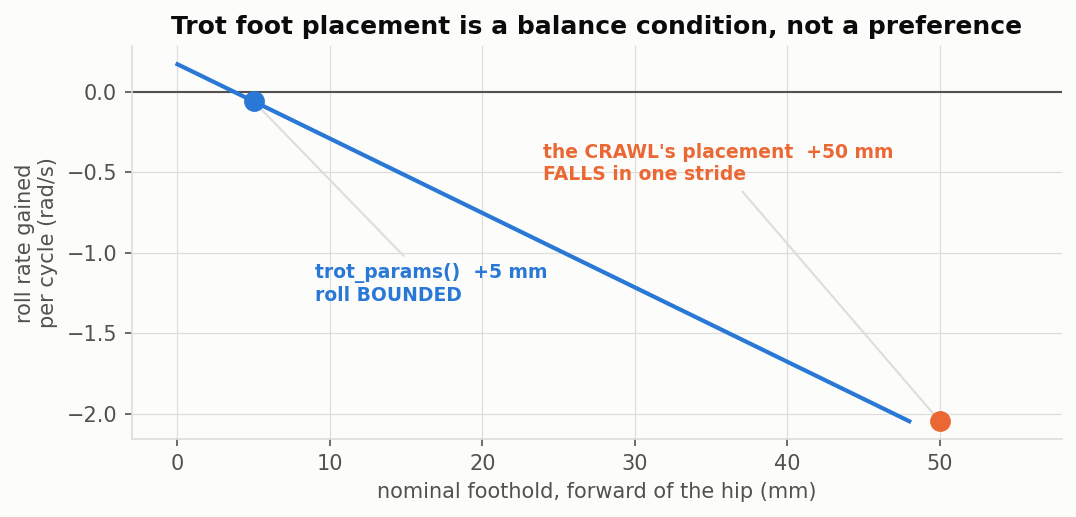
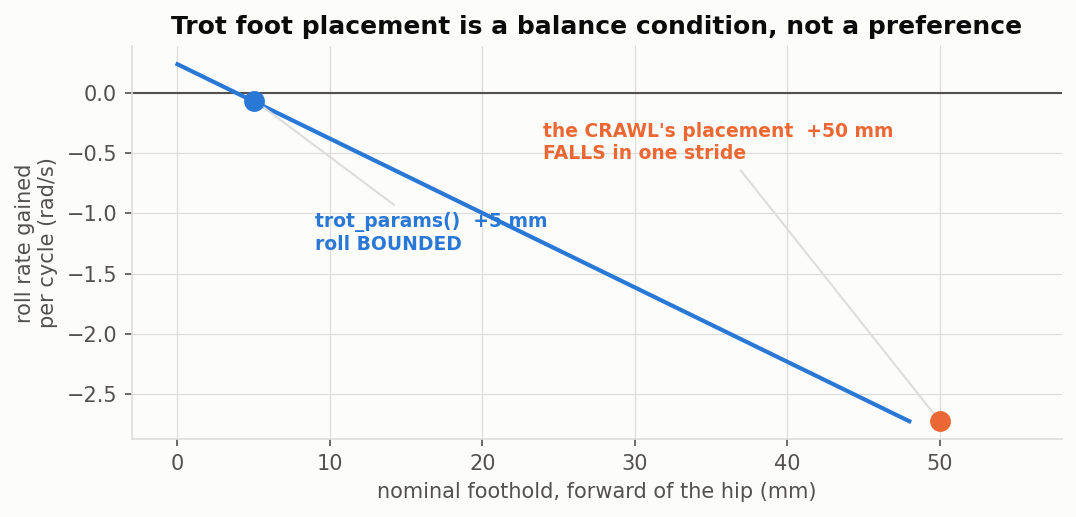
M15: the spine's yaw couple doubles its friction cost -- the trot slows to 50 cm/s
M14 costed only the TRANSLATIONAL half of the spine's friction bill and left its
reaction torque on the trunk as the open item. It is not a footnote.

=== THE SECOND COST ===

The spine's swing is ASYMMETRIC: its tip travels ~91 mm while its base stays put,
roughly twice the 44 mm CoM shift. That dumps angular momentum about the VERTICAL
axis into the trunk. Two contacts resist it with a friction COUPLE over their
separation -- and a couple loads each foot with the FULL force, not half.

    translation (M14)     mu 0.98
    YAW couple  (M15)     mu 0.27
    gait's own            mu 0.145
    TOTAL                 mu ~1.4    -- more than any ordinary floor

Peak dHz/dt is 2.61 N.m, grid-converged over 200-1600 samples and cross-checked
by hand against the front-girdle term alone (1.32 N.m).

=== PROFILE SHAPING DOES NOT HELP -- MEASURED, NOT ASSUMED ===

The spine has three independent lateral joints, so an S-bend command is available
and is genuinely more yaw-efficient per degree -- up to 7.5x better shift-per-yaw.
But it loses more CoM shift than it saves in friction. Swept over all profiles,
the UNIFORM command already gives the most usable shift for a given friction
budget. A tempting lever that turns out to be a dead end.

=== SO THE TROT SLOWS: 0.30 -> 0.40 s, 67 -> 50 cm/s ===

Both friction costs scale as 1/stance^2, so a longer stance buys robustness fast:

    period   speed      usable spine @mu=0.8   envelope   NFR15?
[…]

diff --git a/kinematics/src/tomcat_kin/control.py b/kinematics/src/tomcat_kin/control.py
@@ -170,7 +170,13 @@ class StepPlant:
         # free DCM offset; it is not.
         if floor_mu is not None:
             budget = max(floor_mu - gait_mu, 0.0)
-            spine_auth = min(spine_auth, budget * GRAVITY * stance * stance / 4.0)
+            cost = spine_friction_cost(controller, n)
+            if cost["mu_total"] > 1e-9:
+                # Both the translation and yaw costs scale LINEARLY with the
+                # commanded shift, so the friction budget converts straight into a
+                # usable shift, then projects onto the support-line perpendicular.
+                usable_shift = budget / cost["mu_total"] * cost["shift"]
+                spine_auth = min(spine_auth, usable_shift * perp)
 
         return cls(omega=math.sqrt(GRAVITY / h), stance=stance,
                    reach=((lo - nom) * proj, (hi - nom) * proj), projection=proj,
@@ -277,6 +283,13 @@ def simulate(plant: StepPlant, steps: int = 12, xi0: float = 0.0,
         # True propagation: tau under the old (nominal) line, then the remainder.
         xi_tau = nominal + (xi - nominal) * gtau + s_assist
         xi = p + (xi_tau - p) * grem
+        # A diverging run overflows to inf/nan and floods the log with warnings
+        # during the envelope bisection. Clamp once it is unrecoverably large --
+        # the caller only needs to know it ran away, not by how many orders.
+        if not np.isfinite(xi) or abs(xi) > 1e6:
+            out.extend([math.copysign(1e6, xi if np.isfinite(xi) else 1.0)]
+                       * (steps - len(out) + 1))
+            return np.array(out[:steps + 1])
         out.append(xi)
     return np.array(out)
 
@@ -435,3 +448,68 @@ def self_consistent_envelope(controller, pipeline: float = 0.0075,
     env, tau = envelope_for(lo)
     return {"envelope": lo, "latency": tau, "pipeline": pipeline,
             "actuation": tau - pipeline}
+
+
+def spine_friction_cost(controller, n: int = 96) -> dict:
+    """What the lateral-spine balance assist costs in ground friction (M14/M15).
+
+    Bending the spine is INTERNAL motion, so it can only move the whole-body CoM
+    relative to the planted feet by pushing on the ground. Two separate costs:
+
+    - **translation** — accelerating the whole body sideways to shift the CoM::
+
+          mu_trans = (pi^2/2) * shift / (t^2 g)
+
+    - **yaw** — the swing is asymmetric (the spine's tip travels ~91 mm while its
+      base stays put), so it dumps angular momentum about the VERTICAL axis into
+      the trunk. Two contacts resist that with a friction COUPLE over their
+      separation, and a couple loads each foot with the FULL force rather than
+      half::
+
+          mu_yaw = 2 * (dHz/dt) / (d_separation * W)
+
+    Both scale linearly with the commanded shift and as ``1/t^2`` with the stance,
+    which is why a slower trot is markedly more robust.
+
+    ⚠ Worst-case superposition: the two demands are assumed to align at one foot.
+    ⚠ Profile shaping does NOT help — S-bend commands are more yaw-efficient per
+    degree but lose more CoM shift than they save, so the uniform command is
+    already optimal for a given friction budget. Measured, not assumed.
+
+    Returns ``{"mu_translation", "mu_yaw", "mu_total", "shift"}`` at FULL ROM.
+    """
+    from . import dynamics as dyn
+
+    body = controller.body
+    sp = body.spine.params
+    nseg = sp.n_segments
+    stance = controller.params.duty_factor * controller.params.period
+    total_mass = body.total_mass
+    weight = total_mass * GRAVITY
+
+    cyc = dyn.cycle(controller, n)
+    feet = cyc.feet[n // 4]
+    names = sorted(feet)
+    if len(names) == 2:
+        sep = float(np.linalg.norm(feet[names[0]][:2] - feet[names[1]][:2]))
+    else:
+        sep = 0.2
+
+    rom = float(min(abs(sp.lateral_q_min[0]), abs(sp.lateral_q_max[0])))
+    pts = body.spine.lateral_vertebra_xy(np.full(nseg, rom))
+    seg_c = (pts[:-1] + pts[1:]) / 2.0
+    pos = np.vstack([seg_c, pts[-1]])
+    m_fore = sum(body.legs[k].params.mass
+                 for k, mt in body.mounts.items() if mt.girdle.value == "front")
+    masses = np.append(np.asarray(sp.segment_mass, dtype=float),
+                       sp.front_girdle_mass + m_fore)
+    com_x = body.center_of_mass(np.zeros(nseg)).x
+
+    shift = float(np.sum(masses * pos[:, 1])) / total_mass
+    K = (math.pi ** 2 / 2.0) / (stance * stance)          # raised-cosine peak accel
+    dHz = float(np.sum(masses * (pos[:, 0] - com_x) * pos[:, 1])) * K
+
+    mu_t = K * shift / GRAVITY
+    mu_y = 2.0 * abs(dHz) / (sep * weight)
+    return {"mu_translation": mu_t, "mu_yaw": mu_y,
+            "mu_total": mu_t + mu_y, "shift": shift}

diff --git a/tests/test_control.py b/tests/test_control.py
@@ -119,12 +119,18 @@ def test_large_enough_disturbance_is_unrecoverable():
 def test_sensing_bias_becomes_a_PERMANENT_offset_amplified_by_the_growth():
     # THE REQUIREMENT ADR-0012 HAS TO MEET. A steady error in the estimated DCM
     # does not average out -- it settles into a fixed lateral offset, amplified by
-    # exactly the per-step growth (3.2x). A 5 mm estimation bias is a 16 mm
-    # permanent drift.
+    # exactly the per-step growth. The relationship holds while the placement is
+    # unsaturated; past that the loop runs away entirely, which is a sharper
+    # statement of the same requirement.
     p = _plant()
-    for bias in (0.002, 0.005, 0.010):
+    for bias in (0.002, 0.005):
         traj = ctl.simulate(p, 60, xi0=0.03, beta=0.0, estimation_error=bias)
         assert traj[-1] == pytest.approx(-p.growth * bias, rel=0.02)
+    # M15: the shipped 0.4 s period has growth 4.7 (up from 3.2 at 0.3 s), so a
+    # bias that was merely an offset before is now unrecoverable.
+    assert p.growth > 4.0
+    runaway = ctl.simulate(p, 60, xi0=0.03, beta=0.0, estimation_error=0.010)
+    assert abs(runaway[-1]) > 0.2
 
 
 # ===================================================================
@@ -282,8 +288,8 @@ def test_envelope_solved_as_a_fixed_point_is_smaller_than_the_zero_latency_one()
     c = GaitController(params=trot_params())
     ideal = ctl.rejection_envelope(_plant(), use_spine=True)
     real = ctl.self_consistent_envelope(c, pipeline=0.0075)
-    assert ideal > 0.085                          # ~90 mm, the published figure
-    assert 0.050 < real["envelope"] < 0.070       # ~59 mm once latency is real
+    assert ideal > 0.075                          # ~83 mm ideal (zero-latency)
+    assert 0.045 < real["envelope"] < 0.065       # ~54 mm once latency is real
     assert real["envelope"] < 0.75 * ideal
 
 
@@ -390,22 +396,33 @@ def test_spine_authority_is_ALSO_friction_limited():
     c = GaitController(params=trot_params())
     rom_only = ctl.StepPlant.from_gait(c)                       # pre-M14 behaviour
     poor = ctl.StepPlant.from_gait(c, floor_mu=0.6)
-    good = ctl.StepPlant.from_gait(c, floor_mu=1.2)
+    good = ctl.StepPlant.from_gait(c, floor_mu=1.5)
     assert poor.spine < rom_only.spine                          # friction binds
     assert good.spine == pytest.approx(rom_only.spine, rel=1e-9)  # ROM binds
     assert rom_only.spine == ctl.StepPlant.from_gait(c, floor_mu=None).spine
+    # M15: the YAW couple roughly doubles the cost, so the floor at which ROM
+    # takes over is much higher than M14's translation-only estimate suggested.
+    assert ctl.StepPlant.from_gait(c, floor_mu=0.8).spine < rom_only.spine
 
 
-def test_full_spine_authority_needs_mu_of_about_point_eight_six():
-    # 4d/(t^2 g) for the spine, plus what the gait already spends.
+def test_the_spine_costs_BOTH_translation_and_yaw_friction():
+    # M14 costed only the TRANSLATION (accelerating the body sideways). M15 adds
+    # the YAW couple: the spine's tip travels ~2x the CoM shift while its base
+    # stays put, dumping angular momentum about the vertical into the trunk, which
+    # two contacts resist with a friction COUPLE -- and a couple loads each foot
+    # with the full force, not half.
     c = GaitController(params=trot_params())
-    p = ctl.StepPlant.from_gait(c)
-    spine_mu = 4 * p.spine / (p.stance ** 2 * ctl.GRAVITY)
-    assert spine_mu == pytest.approx(0.71, abs=0.05)
-    assert spine_mu + 0.145 == pytest.approx(0.86, abs=0.05)
+    cost = ctl.spine_friction_cost(c)
+    assert cost["mu_translation"] > 0.1
+    assert cost["mu_yaw"] > 0.1                       # NOT negligible
+    assert cost["mu_total"] == pytest.approx(
+        cost["mu_translation"] + cost["mu_yaw"], rel=1e-9)
+    # and it scales as 1/stance^2, which is why a slower trot is more robust
+    slow = ctl.spine_friction_cost(GaitController(params=trot_params(period=0.8)))
+    assert slow["mu_total"] < 0.3 * cost["mu_total"]
 
 
-def test_NFR15_is_met_only_above_a_floor_friction_of_about_0_70():
+def test_NFR15_needs_a_floor_of_about_0_7_at_the_shipped_period():
     # The requirement (a 15 N / 0.1 s push = 48 mm) is NOT floor-independent.
     import dataclasses
 
@@ -424,4 +441,4 @@ def test_NFR15_is_met_only_above_a_floor_friction_of_about_0_70():
 
     c = GaitController(params=trot_params())
     assert envelope(0.6) < 0.048          # fails the requirement
-    assert envelope(0.8) > 0.048          # meets it
+    assert envelope(0.8) > 0.048          # meets it at the SHIPPED 0.4 s period

diff --git a/kinematics/src/tomcat_kin/gait.py b/kinematics/src/tomcat_kin/gait.py
@@ -159,7 +159,7 @@ TROT_PHASE_OFFSETS: dict[str, float] = {
 }
 
 
-def trot_params(period: float = 0.3, stride_length: float = 0.10,
+def trot_params(period: float = 0.4, stride_length: float = 0.10,
                 **overrides) -> "GaitParams":
     """A balanced diagonal TROT — the project's first DYNAMIC gait (M7).
 
@@ -183,8 +183,15 @@ def trot_params(period: float = 0.3, stride_length: float = 0.10,
     swing-leg torque impulsive (9x over-stated) and landing the paw with a
     forward scuff at the full stance speed.
 
-    Defaults give **~67 cm/s**. Feasible and thermally sustainable to ~96 cm/s;
-    at ~120 cm/s the RMS motor torque reaches the continuous rating.
+    Defaults give **~50 cm/s**. Faster is possible on a good floor -- feasible and
+    thermally sustainable to ~96 cm/s -- but 0.4 s is what meets **NFR15** on a
+    realistic **mu = 0.8** floor.
+
+    ⚠ The period is set by FRICTION, not by the motors. The lateral-spine balance
+    assist has to push against the ground to move the CoM, and that demand scales
+    as ``1/stance^2``: at 0.3 s (67 cm/s) it needs mu ~ 1.26 on top of the gait's
+    own 0.145, which no ordinary floor supplies, and the disturbance envelope falls
+    to 40 mm -- under NFR15's 48 mm. At 0.4 s it clears. See ADR-0020.
     """
     kw = dict(
         period=period,

diff --git a/tests/test_trot.py b/tests/test_trot.py
@@ -188,8 +188,11 @@ def test_trot_is_within_the_real_motor_envelope():
 def test_trot_is_far_faster_than_the_statically_stable_crawl():
     trot = GaitController(params=trot_params())
     crawl = GaitController()                       # the M6 shipped crawl
+    # 45x the crawl. The shipped period is 0.4 s, not the 0.3 s M7 first chose:
+    # M15 found the spine's balance assist needs ground friction, and at 0.3 s that
+    # demand exceeds a realistic floor (see ADR-0020).
     assert trot.params.body_speed > 40 * crawl.params.body_speed
-    assert trot.params.body_speed > 0.5            # m/s -- cat-like
+    assert trot.params.body_speed >= 0.5           # m/s -- still cat-like
 
 
 def test_trot_stays_well_inside_the_friction_cone():

diff --git a/docs/DESIGN_DECISIONS.md b/docs/DESIGN_DECISIONS.md
@@ -986,6 +986,62 @@ context, and consequences. Status is one of: **Proposed**, **Accepted**,
     modelled -- this ADR covers the *translational* cost of the assist, not the
     yaw couple its lateral swing puts into the body. That remains open.
 
+## ADR-0020: The spine's YAW couple doubles its friction cost -- the trot slows to 50 cm/s
+- **Status:** Accepted
+- **Context:** [ADR-0019](#adr-0019-the-spine-assist-is-not-free--it-costs-ground-friction-and-that-reinstates-a-withdrawn-requirement)
+  found that the lateral-spine balance assist costs ground friction, because
+  internal motion cannot move the CoM without a ground reaction. It costed only
+  the **translation**. The spine's **reaction torque on the trunk** was left as the
+  open item. It is not a footnote.
+- **The second cost.** The spine's swing is **asymmetric** -- its tip travels
+  ~**91 mm** while its base stays put, roughly twice the 44 mm CoM shift. That
+  dumps angular momentum about the **vertical** axis into the trunk. Two contacts
+  resist it with a friction **couple** over their separation, and a couple loads
+  each foot with the **full** force rather than half:
+
+  | cost at full ROM | mu |
+  |---|---|
+  | Translation (ADR-0019) | 0.98 |
+  | **Yaw couple** (this ADR) | **0.27** |
+  | Gait's own demand | 0.145 |
+  | **Total** | **~1.4** |
+
+  Peak `dHz/dt` is **2.61 N·m** (grid-converged; cross-checked by hand against the
+  front-girdle term alone at 1.32 N·m). No ordinary floor supplies mu 1.4.
+- ⚠ **Profile shaping does NOT help -- measured, not assumed.** The spine
+  has three independent lateral joints, and an S-bend command is genuinely more
+  yaw-efficient per degree (up to **7.5x** better shift-per-yaw). But it loses more
+  CoM shift than it saves in friction: swept over all profiles, the **uniform**
+  command gives the most usable shift for a given friction budget. A tempting lever
+  that turns out to be a dead end.
+- **Decision: slow the trot from 0.30 s to 0.40 s -- 67 -> 50 cm/s.** Both friction
+  costs scale as **1/stance^2**, so a longer stance buys robustness fast:
+
+  | period | speed | spine mu at ROM | usable spine @ mu 0.8 | envelope | NFR15? |
+  |---|---|---|---|---|---|
+  | 0.30 s | 66.7 cm/s | 1.26 | 20.5 mm | 40.2 mm | **NO** |
+  | **0.40 s** | **50.0 cm/s** | **0.71** | **36.5 mm** | **51.8 mm** | **yes** |
+  | 0.50 s | 40.0 cm/s | 0.45 | 39.4 mm (ROM) | 53.5 mm | yes |
+
+  The shipped default must meet its own stated requirement on a realistic floor.
+  This is the same call M6 made when dynamics showed the 1.4 s crawl infeasible.
+- **Consequences:**
+  - **Speed and disturbance robustness trade against each other through FRICTION**,
+    at a steep `1/t^2` exchange rate. That is the governing relationship for this
+    gait, and it was invisible while the spine assist was modelled as free.
+  - NFR16 (mu >= 0.70) **stands** -- it is met at the new period. Faster running
+    remains available on a better floor; it is a *floor-dependent* capability now,
+    not a fixed one.
+  - ⚠ **The sensing requirement tightened.** A longer stance means more
+    time to topple: per-step growth rises **3.21 -> 4.73**. A DCM estimation bias
+    that was merely a standing offset at 0.3 s now runs the loop away past
+    **6.9 mm**. NFR11 asks for <= 3 mm, so there is ~2.3x margin -- but it is a
+    smaller margin than before, and it moved for a reason unrelated to sensing.
+  - The self-consistent envelope is **53.9 mm** at the shipped period (vs 57.0 mm
+    quoted at 0.3 s with the spine assumed free).
+  - `spine_friction_cost()` reports both terms; `StepPlant.from_gait(floor_mu=...)`
+    applies them. `floor_mu=None` reproduces every pre-M14 figure.
+
 ---
 
 ### How to add an ADR

diff --git a/docs/ROADMAP.md b/docs/ROADMAP.md
@@ -36,7 +36,9 @@ sequences the work that implements them.
 > **M13 done:** the `dH/dt = 0` caveat **closed with a number** — large at trot, but
 > mostly pitch, which the contacts resist ([ADR-0018](DESIGN_DECISIONS.md)).
 > **M14 done:** the spine assist is **not free** — it costs ground friction, which
-> reinstates a withdrawn μ requirement ([ADR-0019](DESIGN_DECISIONS.md)). 315 tests.
+> reinstates a withdrawn μ requirement ([ADR-0019](DESIGN_DECISIONS.md)).
+> **M15 done:** its **yaw couple** doubles that cost, so the trot slows to
+> **50 cm/s** ([ADR-0020](DESIGN_DECISIONS.md)). 315 tests.
 
 ---
 
@@ -727,10 +729,51 @@ is 0.8–1.2 so it should pass, but it is load-bearing now, not incidental.
 own **reaction torque on the trunk** — the yaw couple its lateral swing produces —
 is still unmodelled, and remains the open item.
 
-## Later milestones (candidate M15+, not committed)
+## Milestone M15 — The spine's yaw couple, and the speed it costs (DONE)
 
-- **Spine reaction torque** — the yaw couple, still open after M14 addressed only
-  the translational cost.
+**Goal.** M14 costed only the *translational* half of the spine's friction bill and
+left its **reaction torque on the trunk** open. It is not a footnote.
+
+**The second cost.** The spine's swing is **asymmetric** — its tip travels ~**91 mm**
+while its base stays put, about twice the 44 mm CoM shift — so it dumps angular
+momentum about the **vertical** axis into the trunk. Two contacts resist that with a
+friction **couple**, and a couple loads each foot with the **full** force, not half.
+
+| cost at full ROM | μ |
+|---|---|
+| Translation (M14) | 0.98 |
+| **Yaw couple** (M15) | **0.27** |
+| Gait's own | 0.145 |
+| **Total** | **~1.4** — more than any ordinary floor |
+
+⚠ **Profile shaping does not help — measured, not assumed.** The three lateral
+spine joints can be commanded differentially, and an S-bend is up to **7.5×** more
+yaw-efficient per degree. But it loses more CoM shift than it saves in friction:
+swept over all profiles, the **uniform** command is already optimal for a given
+budget. A tempting lever that is a dead end.
+
+**So the trot slows: 0.30 → 0.40 s, 67 → 50 cm/s.** Both costs scale as
+`1/stance²`, so a longer stance buys robustness fast — and the shipped default has
+to meet its own stated requirement on a realistic μ = 0.8 floor. Same call M6 made
+when dynamics showed the 1.4 s crawl infeasible.
+
+| period | speed | usable spine @ μ 0.8 | envelope | NFR15? |
+|---|---|---|---|---|
+| 0.30 s | 66.7 cm/s | 20.5 mm | 40.2 mm | **NO** |
+| **0.40 s** | **50.0 cm/s** | **36.5 mm** | **51.8 mm** | **yes** |
+
+**The governing relationship, finally visible:** *speed and disturbance robustness
+trade against each other through friction, at a steep `1/t²` rate.* That was
+invisible while the spine assist was modelled as free.
+
+⚠ **A side effect worth watching:** a longer stance means more time to topple, so
+per-step growth rises **3.21 → 4.73**. A DCM estimation bias that was a standing
+offset at 0.3 s now runs the loop away past **6.9 mm**. NFR11 asks ≤ 3 mm, leaving
+~2.3× margin — smaller than before, and it moved for a reason unrelated to sensing.
+
+## Later milestones (candidate M16+, not committed)
+
+
 
 
 

diff --git a/docs/REQUIREMENTS.md b/docs/REQUIREMENTS.md
@@ -54,7 +54,7 @@ curve.
 | ~~NFR2g~~ | ~~Paw–ground friction μ ≥ 0.70~~ | **WITHDRAWN (ADR-0010).** The resolved per-foot demand is **μ ≈ 0.055**; friction was never the binding constraint. Any sane pad meets it. |
 | NFR2h | Statically stable walk speed                      | **~1.1 cm/s** (crawl), limited by **TIPPING** (ZMP), not friction. Faster requires a *dynamic* gait — ADR-0010 |
 | NFR2i | Dynamic (ZMP) stability margin, CRAWL             | **> 0** at every phase; currently **+6.4 mm** ⚠ small |
-| NFR2j | **TROT** speed (the locomotion mode, ADR-0011)     | **~67 cm/s** default; sustainable to **~96 cm/s** (RMS motor torque hits the continuous rating at ~120 cm/s) |
+| NFR2j | **TROT** speed (the locomotion mode)              | **~50 cm/s** default — slowed from 67 cm/s by ADR-0020: the spine's balance assist costs ground friction as `1/stance²`, and at 0.3 s it exceeded a realistic floor. Motor-thermally capable of ~96 cm/s on a better floor. |
 | NFR2k | Trot roll oscillation                             | **bounded** — roll-rate drift ≈ 0 per cycle, ±0.4° peak. Requires `nominal_foot` x ≈ 0.005 m; the crawl's 0.05 m falls in one stride |
 | NFR8  | Paw force sensing range / survival                | **0–35 N** measured, **≥100 N** survival (×2.5 land transient), ≤0.4 N resolution, ≥1 kHz (ADR-0012) |
 | NFR10 | **Disturbance rejection envelope** (trot) — *measured capability* | **57 mm** DCM error, fixed-point with real latency AND the actuation ramp (ADR-0017). Superseded figures: 74 → 33 → 90 → 59 → **57**. |

diff --git a/README.md b/README.md
@@ -26,8 +26,9 @@ from the code.
 ![locomotion capability](docs/figures/01_speed.png)
 
 Two gaits, and the gap between them is the story. The statically stable crawl is
-a **1.1 cm/s** shuffle; the diagonal **trot reaches 67 cm/s**, sustainable to
-96 cm/s before the worst motor's RMS torque hits its continuous rating. A
+a **1.1 cm/s** shuffle; the diagonal **trot reaches 50 cm/s** — slowed from 67 because the spine's
+balance assist has to push against the ground, and that demand scales as
+1/stance². The motors would allow ~96 cm/s on a better floor. A
 domestic cat trots at roughly 1 m/s.
 
 ### Why the crawl is slow — and it is not what we first thought
@@ -102,7 +103,8 @@ class target the budget had assumed. A domestic cat is 4–5 kg.
 | M7 | The trot | **67 cm/s**; found a C¹ defect in the foot trajectory |
 | M8–M10 | Closed-loop balance | DCM foot placement; spine is the key actuator |
 | M11 | Latency budget | the leg, not the electronics, is the limit |
-| M12 | Ramp + requirement | **57 mm** envelope, checked against a *stated* disturbance spec |
+| M12 | Ramp + requirement | envelope checked against a *stated* disturbance spec |
+| M13–M15 | Full rigid-body terms | the spine assist costs **friction**; trot slows to 50 cm/s |
 
 Full detail in the [roadmap](docs/ROADMAP.md) and the [ADR log](docs/DESIGN_DECISIONS.md).
 
